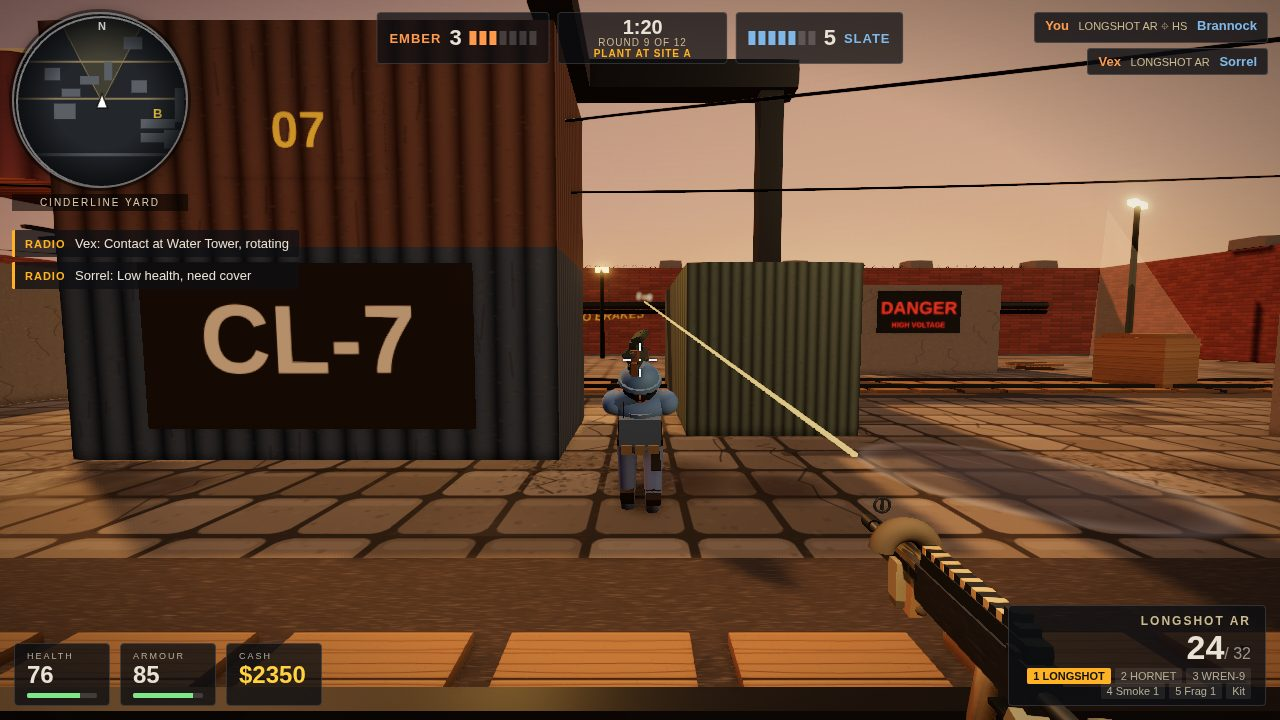
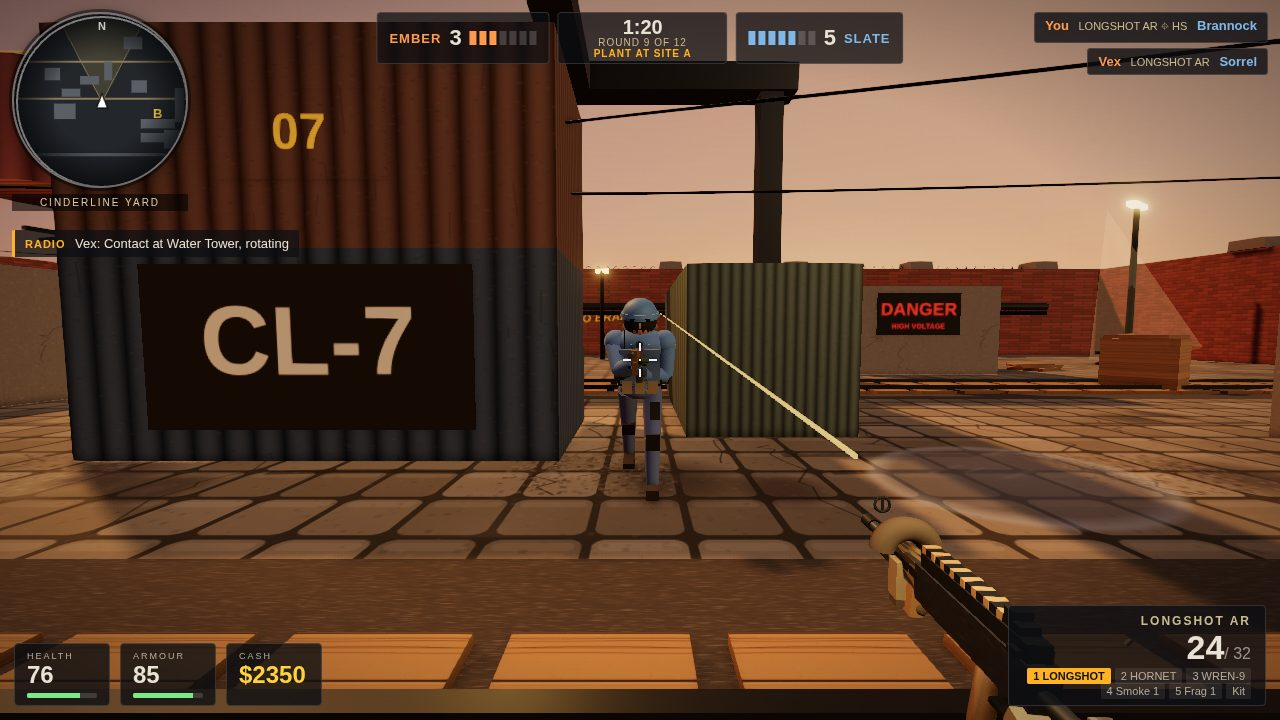
Enemy hands: proper proportions + rounded capsule hands (user spec 01:23)
- Revert hand scale 1.7 -> 1.0; palm = flattened sphere (not box);
  4 capsule fingers (2 segments, curving), separate capsule thumb,
  glove cuff at wrist. Hand width ~0.08 (forearm 0.13), length ~0.11
  (forearm 0.25) - within spec (<=1.2x / ~0.4x).
- Fixes 'green box 2x forearm' (SLATE glove 0x3a4a3a + scale 1.7 +
  thick box fingers merged into a solid block).
- Pose unchanged (already correct): stock on shoulder, right hand on
  grip, left hand on handguard 27 cm ahead (spec 25-35 cm), IK
  SOCKET-PASS dR=0 dL=0.
- Evidence: shots/enemy_hands/{front,side,back,three-quarter}.jpg
  (1.5 m, bot frozen in aim pose, ERRORS 0).
- Final 4 shots re-shot with new hands (ERRORS 0, all <=256 KB);
  dossier text 163302/163840 (538 B headroom), deterministic
  (sha256 4947378c...eef472, 2 runs identical).

diff --git a/game/src/character.js b/game/src/character.js
@@ -163,24 +163,26 @@ export function buildBot(opts) {
     pad.position.set(0, -.01, .04); el.add(pad);
     const fo = new THREE.Mesh(new THREE.CylinderGeometry(.075, .065, .25, 10), mJacket);
     fo.position.y = -.125; fo.castShadow = true; el.add(fo);
-    const hand = new THREE.Group(); hand.position.y = -.27; hand.scale.setScalar(1.7); el.add(hand);
-    const palm = new THREE.Mesh(new THREE.BoxGeometry(.07, .09, .04), mGlove);
-    palm.castShadow = true; hand.add(palm);
-    // gloved fingers: 2-segment HOOKS curling toward the palm (+z) so the
-    // wrap reads at 2.5 m. Oversized (scale 1.7, thick segments) on purpose.
+    const hand = new THREE.Group(); hand.position.y = -.27; el.add(hand);
+    // cuff at the wrist
+    const cuff = new THREE.Mesh(new THREE.CylinderGeometry(.042, .045, .035, 10), mGlove);
+    cuff.position.y = .01; hand.add(cuff);
+    // rounded palm: flattened sphere (not a box)
+    const palm = new THREE.Mesh(new THREE.SphereGeometry(.04, 12, 10), mGlove);
+    palm.scale.set(1, 1.2, .55); palm.position.y = -.035; palm.castShadow = true; hand.add(palm);
+    // 4 capsule fingers, 2 segments, curving toward the palm (+z)
     for (let i = 0; i < 4; i++) {
       const f = new THREE.Group();
-      f.position.set(-.024 + i * .016, -.07, 0); hand.add(f);
-      const s1 = new THREE.Mesh(new THREE.BoxGeometry(.032, .05, .032), mGlove);
-      s1.position.y = -.025; f.add(s1);
-      const j = new THREE.Group(); j.position.y = -.05; j.rotation.x = -1.1; f.add(j);
-      const s2 = new THREE.Mesh(new THREE.BoxGeometry(.03, .045, .03), mGlove);
-      s2.position.y = -.022; j.add(s2);
-      const tip = new THREE.Mesh(new THREE.SphereGeometry(.015, 8, 6), mGlove);
-      tip.position.y = -.045; j.add(tip);
+      f.position.set(-.027 + i * .018, -.075, 0); hand.add(f);
+      const s1 = new THREE.Mesh(new THREE.CapsuleGeometry(.011, .025, 4, 8), mGlove);
+      s1.position.y = -.02; f.add(s1);
+      const j = new THREE.Group(); j.position.y = -.04; j.rotation.x = -1.1; f.add(j);
+      const s2 = new THREE.Mesh(new THREE.CapsuleGeometry(.01, .02, 4, 8), mGlove);
+      s2.position.y = -.018; j.add(s2);
     }
-    const thumb = new THREE.Mesh(new THREE.BoxGeometry(.02, .055, .02), mGlove);
-    thumb.position.set(side * .045, -.03, .01); thumb.rotation.z = side * .5; hand.add(thumb);
+    // separate thumb: capsule on the side
+    const thumb = new THREE.Mesh(new THREE.CapsuleGeometry(.012, .03, 4, 8), mGlove);
+    thumb.position.set(side * .05, -.03, .015); thumb.rotation.z = side * .6; thumb.rotation.x = -.3; hand.add(thumb);
     return { sh, el, hand };
   }
   // legs: hip pivot at (±.11, 1.06) -> hips space y=0
